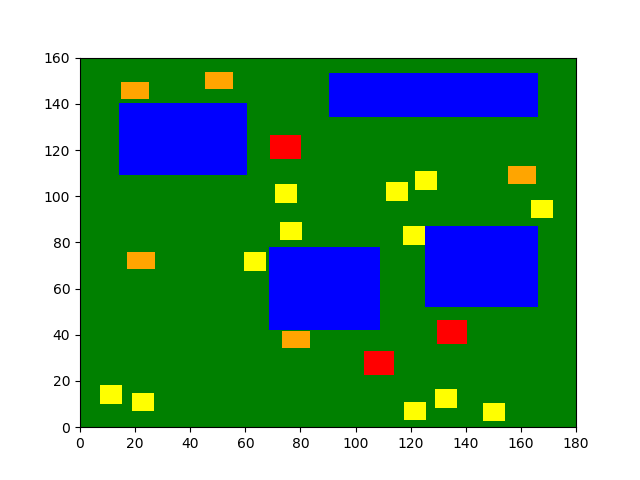
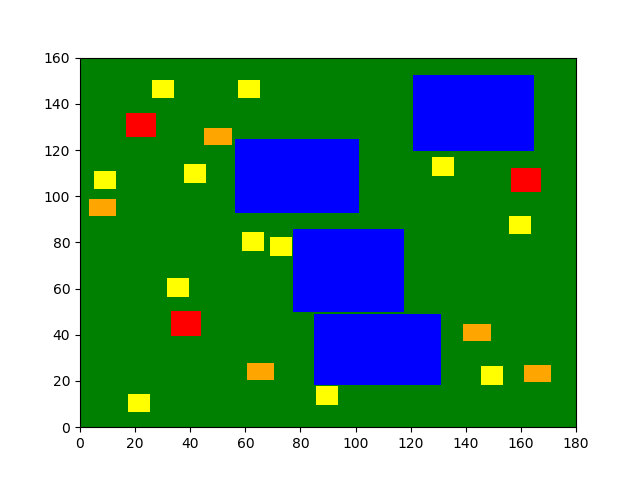
water niet over elkaar

diff --git a/Classes/map.py b/Classes/map.py
@@ -166,9 +166,9 @@ class Map(object):
 		water_id -- id corresponding to the water body being placed
 		'''
 
-		i = 0
-
 		from __import__ import Water, MAP_20
+
+		i = 0
 
 		# allowed = False
 		tmp_list = []
@@ -192,13 +192,20 @@ class Map(object):
 
 		tmp_list.append(new_water)
 
-		i += 1
+		xy = x / y
 
         #check if ratio is correct
 		if ((x / y) < 0.25) & ((x / y) > 4):
 			return False
 
 		for water in self.water:
+
+			# check if location falls between walls
+			if (new_water.location['x'] > water.corners['lb']['x'] and
+				new_water.location['x'] < water.corners['rb']['x'] and
+				new_water.location['y'] > water.corners['lo']['y'] and
+				new_water.location['y'] < water.corners['lb']['y']):
+				return False
 
 			# check if corner is not inside other water body
 			for c in new_water.corners:
@@ -242,43 +249,42 @@ class Map(object):
 
 		tmp_list = []
 
-		i = 0
-
 		# get location with max freespace
 		fpm = self.calc_freespace_on_map()
 
         # initialize last location
 		j = len(fpm[1]) - 1
-		del self.construction[0]
-
+		i = 0
         # calculate total water body
 		area = (self.water_prev * self.width * self.height)
 
-		i = 0
+		for i in range(nr_water):
 
-		# while len(self.water) < 1: #and area > 0
-        #
-		# 	j = j - i
+			j = j - i
 
-		# get best location from freespace_on_map
-		best_loc = fpm[0][-1]
+			print(i)
 
-        # get min freespace for best_loc[j]
-		freespace_len = fpm[1][-1]
+			# get best location from freespace_on_map
+			best_loc = fpm[0][j]
 
-		# multiply the minimal freespace to get total water body
-		width = freespace_len * 2
-		height = freespace_len * 2
+		    # get min freespace for best_loc[j]
+			freespace_len = fpm[1][j]
 
-		print(width,height)
+			# multiply the minimal freespace to get total water body
+			width = freespace_len * 2
+			height = freespace_len * 2
 
-		size = {'width': width, 'height': height}
+			print(width,height)
 
-		new_water = Water(j, size, best_loc)
+			size = {'width': width, 'height': height}
 
-		self.water.append(new_water)
+			new_water = Water(j, size, best_loc)
 
-		# i -= 1
+			self.water.append(new_water)
+
+			i -= 1
+
+		del self.construction[0]
 
 			# if ((width / height) < 0.25) & ((width / height) > 4):
 			# 	return False

diff --git a/Algorithms/helpers.py b/Algorithms/helpers.py
@@ -15,8 +15,8 @@ def random_generator(map_charac):
 
 	nr_water = 4
 
-	# while len(out_map.water) < 4:
-	# 	out_map.place_water_random(i, nr_water)
+	while len(out_map.water) < 4:
+		out_map.place_water_random(nr_water)
 
 	for i in range(len(out_map.construction)):
 
@@ -30,7 +30,6 @@ def random_generator(map_charac):
 
 			allowed = out_map.place_house(index, loc)
 
-	# # while len(out_map.water) < nr_water:
-	out_map.place_water(nr_water)
+	# out_map.place_water(nr_water)
 
 	return out_map

diff --git a/Algorithms/best_of_random.py b/Algorithms/best_of_random.py
@@ -35,7 +35,7 @@ if __name__ == '__main__':
 
 	from __import__ import *
 
-	best_random_map = best_of_random(MAP_20, 1, True)
+	best_random_map = best_of_random(MAP_20, 19, True)
 
 	coloured_map(best_random_map['best_map'], 'best_of_random', 'best')
 	save_results(best_random_map['data'], 'best_of_random', 'data')
